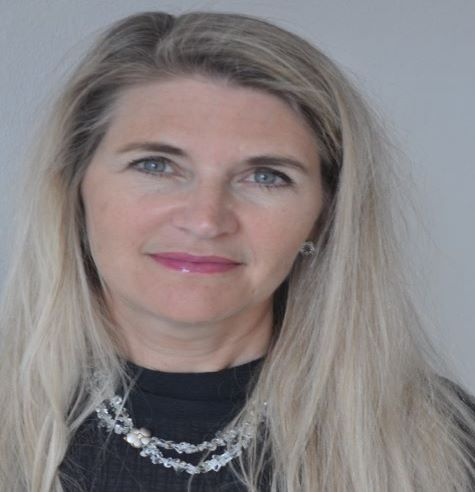
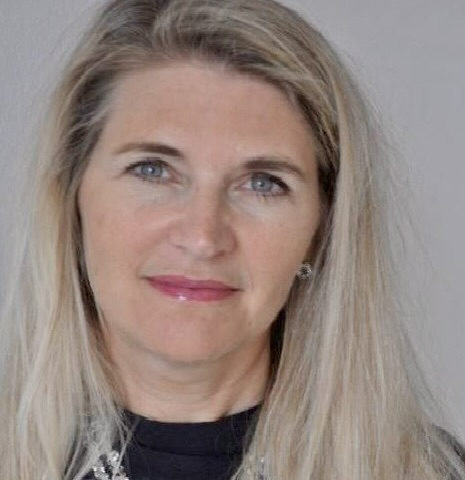
Fix footer

diff --git a/client/src/components/footer/Footer.js b/client/src/components/footer/Footer.js
@@ -1,22 +1,64 @@
-/* eslint-disable jsx-a11y/role-supports-aria-props */
 import React from "react";
 import Container from "react-bootstrap/Container";
-import Contact from "./Contact";
-import "./Footer.css";
+import Card from "react-bootstrap/Card";
+import CardGroup from "react-bootstrap/CardGroup";
+import Figure from "react-bootstrap/Figure";
+import researchers from "./researchers.json";
+import MarieImg from "../../assets/marie.jpg";
+import EvaImg from "../../assets/eva.jpg";
 
 function Footer() {
   return (
-    <div className="continer">
-      <Container className="footer">
-        <h3>Om oss</h3>
-        <Contact />
-        <Container className="text-center">
-          <small className="text-muted">
-            © ProMeno, 2022. All rights reserved.
-          </small>
-        </Container>
-      </Container>
-    </div>
+    <Container
+      className="footer"
+      style={{ alignItems: "center", justifyContent: "center" }}
+    >
+      <h3
+        className="text-center"
+        style={{ marginTop: "1rem", marginBottom: "2rem" }}
+      >
+        Ansvariga forskare
+      </h3>
+      <CardGroup>
+        {researchers.map((researcher) => (
+          <Card
+            style={{
+              alignItems: "center",
+              justifyContent: "center",
+              border: "none",
+            }}
+          >
+            <Figure.Image
+              className="rounded-circle"
+              width={145}
+              alt="researcher image"
+              src={researcher.name === "Marie Karlsson" ? MarieImg : EvaImg}
+            />
+            <Card.Body>
+              <Card.Title
+                className="text-center"
+                style={{
+                  color: "#2b8578",
+                  fontWeight: "bold",
+                  fontSize: "25px",
+                }}
+                src={researcher.name === "Marie Karlsson" ? MarieImg : EvaImg}
+              >
+                {researcher.name}
+              </Card.Title>
+              <Card.Text
+                className="text-center"
+                style={{ marginTop: "1rem", color: "grey" }}
+              >
+                {researcher.descriptions.map((description) => (
+                  <p>{description}</p>
+                ))}
+              </Card.Text>
+            </Card.Body>
+          </Card>
+        ))}
+      </CardGroup>
+    </Container>
   );
 }
 
